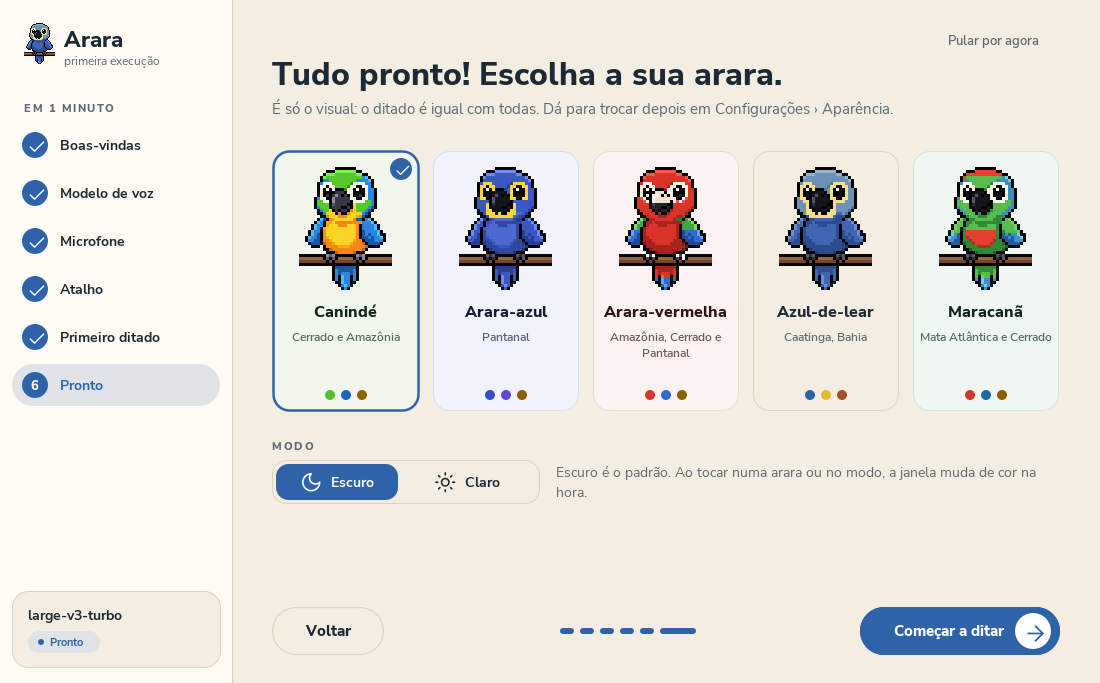
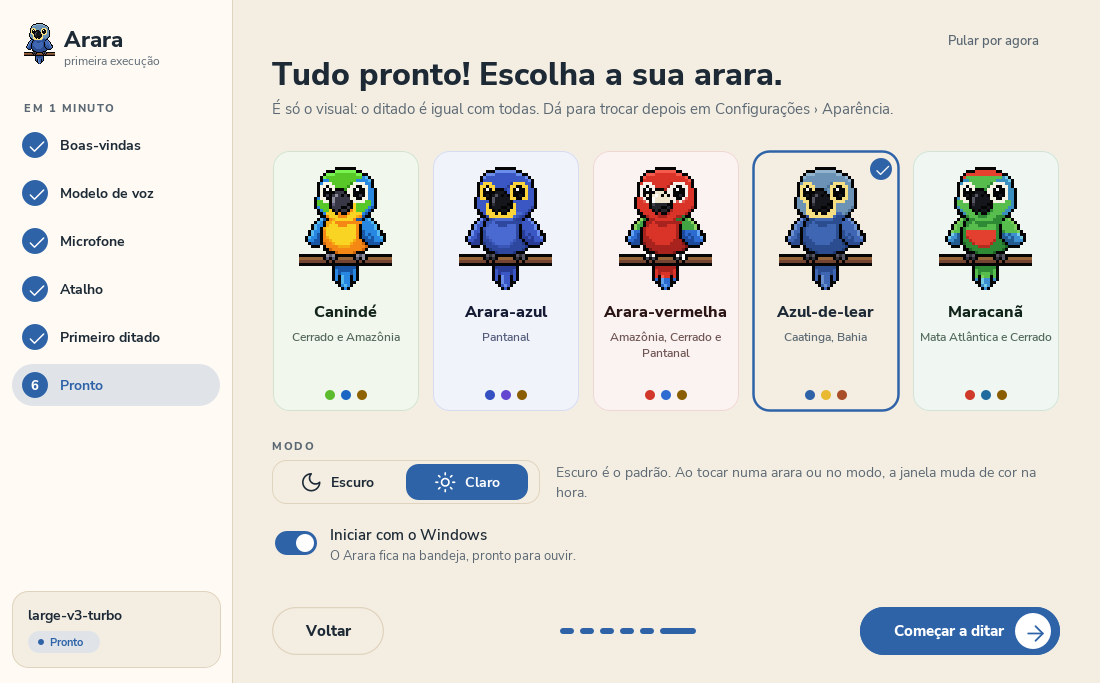
fix(primeira-execucao): devolve a chave Iniciar com o Windows ao passo 6
A entrada de inicialização do sistema vem ligada por padrão, e na primeira
execução esta chave é o único aviso visível de que o app grava essa entrada.
Fica numa linha compacta abaixo da chave de modo, com o texto "O Arara fica na
bandeja, pronto para ouvir." (no Mac, "Abrir ao iniciar sessão" e "barra de
menus").

diff --git a/app/src/main/java/br/arara/app/Onboarding.java b/app/src/main/java/br/arara/app/Onboarding.java
@@ -715,6 +715,11 @@ final class Onboarding extends JPanel implements DictationListener {
         put(p, Appearance.modes(settings, false, 130), MX, 460, 2 * 130 + 8, 44);
         para(p, "Escuro é o padrão. Ao tocar numa arara ou no modo, a janela muda de cor na hora.", Theme.regular(14),
                 Theme.TEXT_SOFT, MX + 284, 462, 500, 20);
+        // Aviso de que o app grava a entrada de inicialização do sistema (ligada por padrão).
+        put(p, Ui.toggle(settings.load().startWithWindows(), Ui.STARTUP, value -> settings.save(settings.load().withStartWithWindows(value))),
+                MX - 3, 528, 50, 30);
+        label(p, Ui.STARTUP, Theme.semibold(15), Theme.TEXT, MX + 58, 524);
+        label(p, "O Arara fica na " + Ui.TRAY + ", pronto para ouvir.", Theme.regular(13), Theme.TEXT_SOFT, MX + 58, 546);
     }
 
     // ------------------------------------------------------------------ peças

diff --git a/app/src/test/java/br/arara/app/ScreenshotTest.java b/app/src/test/java/br/arara/app/ScreenshotTest.java
@@ -361,6 +361,7 @@ class ScreenshotTest {
                 save(o, Onboarding.WIDTH, Onboarding.HEIGHT, dir + "primeira-execucao-6-escolha");
                 // Sem par no design: conferem que nada ficou na cor fixa da canindé num tema claro.
                 Theme.apply(Settings.Macaw.LEAR, true);
+                core.settings().save(core.settings().load().withMacaw(Settings.Macaw.LEAR).withLightMode(true));
                 Onboarding light = new Onboarding(core.engine(), core.settings(), download, (name, chunks) -> () -> {}, () -> true, () -> {});
                 light.show(3);
                 save(light, Onboarding.WIDTH, Onboarding.HEIGHT, dir + "extra-primeira-execucao-4-atalho-lear-claro");
